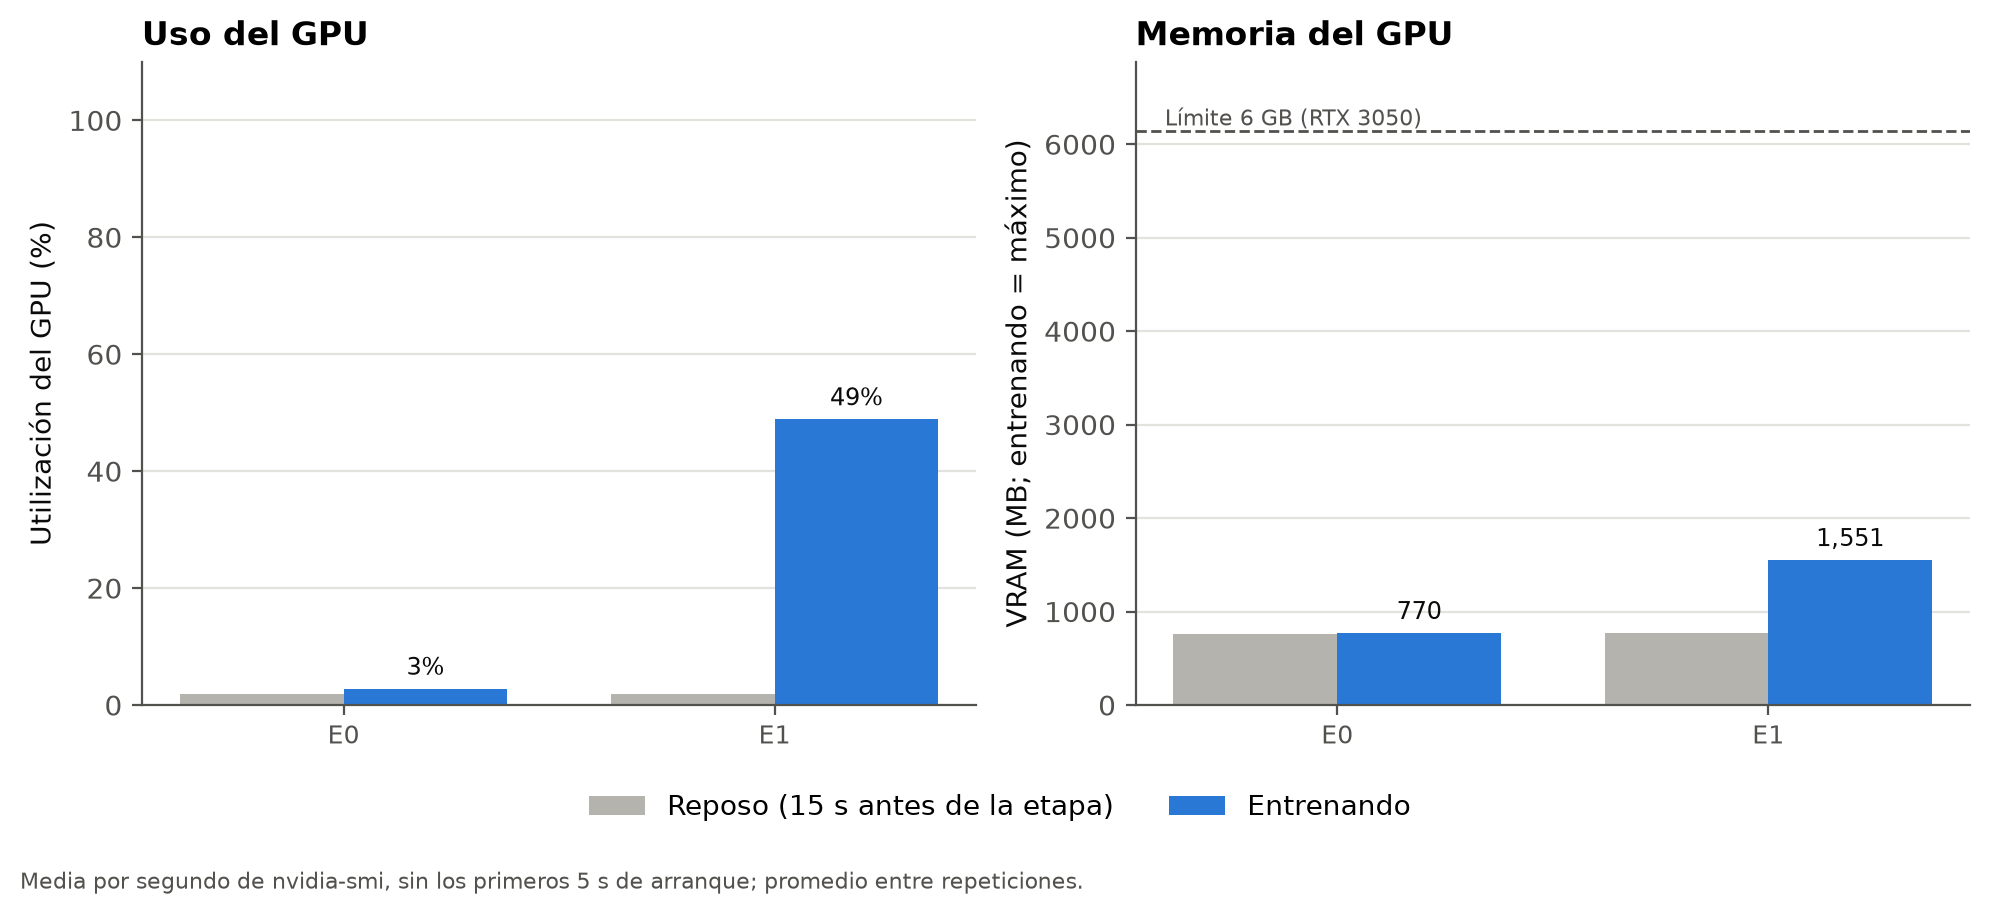
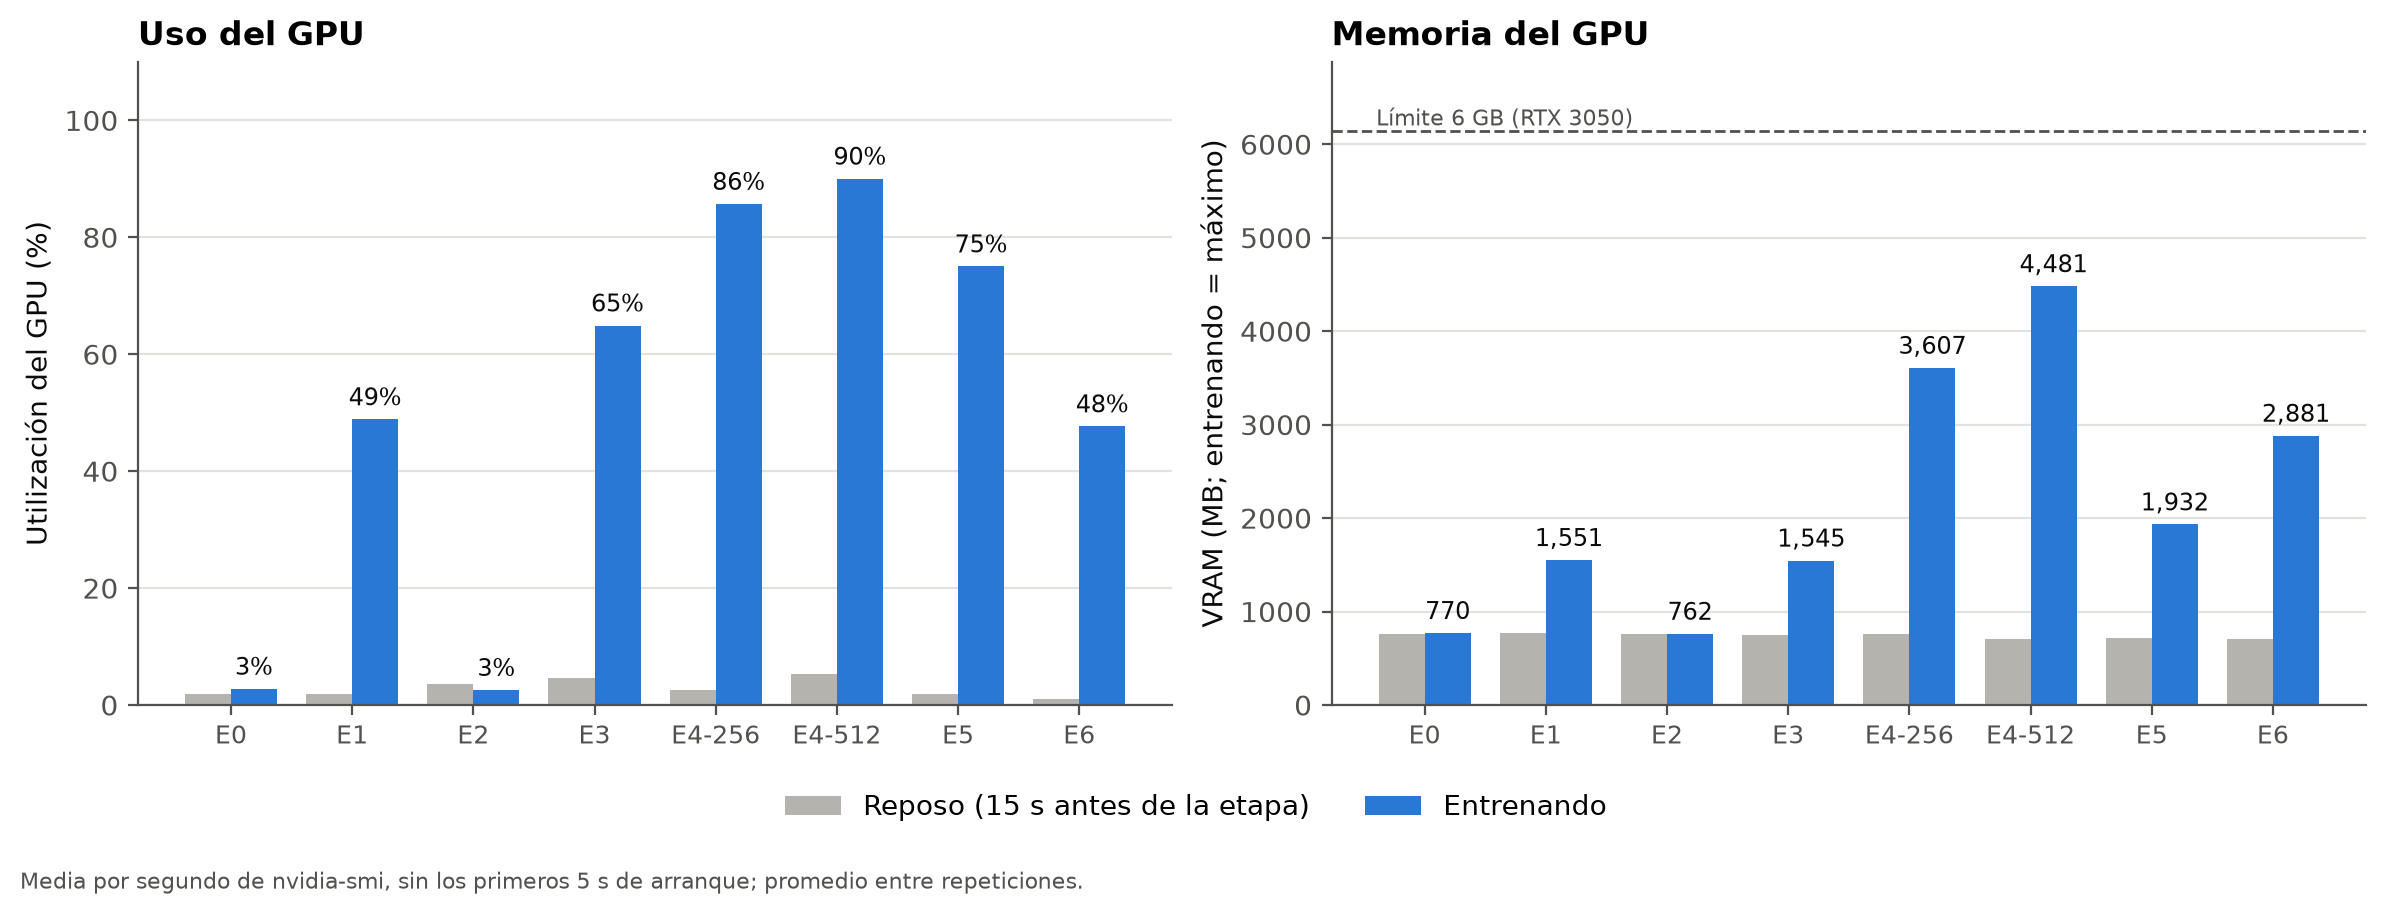
data: regenerate tables and figures with all stages

diff --git a/results/resumen_wsl2-rtx3050.md b/results/resumen_wsl2-rtx3050.md
@@ -6,14 +6,20 @@
 | --- | --- | --- | --- | --- | --- | --- | --- | --- | --- |
 | E0 | cpu | Código original del lab (CPU) | 3 | 396.19 | 1.46 | 153.72 | 0.95 | 1.00 | — |
 | E1 | gpu | Mismo código con GPU visible | 5 | 55.64 | 0.95 | 1,094.85 | 0.92 | 7.12 | 7.12 |
+| E2 | cpu | .npy + tf.data (CPU) | 3 | 304.57 | 4.80 | 199.98 | 0.95 | 1.30 | 0.18 |
+| E3 | gpu | .npy + tf.data (GPU) | 5 | 38.78 | 0.46 | 1,570.73 | 0.98 | 10.22 | 7.85 |
+| E4-256 | gpu | Lote grande | 5 | 26.45 | 0.29 | 2,302.83 | 0.94 | 14.98 | 1.47 |
+| E4-512 | gpu | Lote grande | 5 | 26.20 | 3.79 | 2,382.90 | 0.05 | 15.12 | 1.01 |
+| E5 | gpu | Precisión mixta | 5 | 28.53 | 0.38 | 2,135.13 | 0.95 | 13.89 | 0.92 |
+| E6 | gpu | XLA (jit_compile) | 5 | 7.85 | 0.02 | 7,762.39 | 0.95 | 50.50 | 3.64 |
 
 ## Speedups reportados
 
 | speedup | t_antes_s | t_despues_s | valor |
 | --- | --- | --- | --- |
-| Fase 1: preparación secuencial / paralela | — | — | pendiente |
-| Fase 2, efecto del GPU: E2 / E3 | — | — | pendiente |
-| Total: E0 / mejor etapa (E1) | 396.19 | 55.64 | 7.12× |
+| Fase 1: preparación secuencial / paralela | 54.23 | 9.29 | 5.84× |
+| Fase 2, efecto del GPU: E2 / E3 | 304.57 | 38.78 | 7.85× |
+| Total: E0 / mejor etapa (E6) | 396.19 | 7.85 | 50.50× |
 | Mismo código en GPU: E0 / E1 | 396.19 | 55.64 | 7.12× |
 
 ## Transferencia CPU → GPU (un lote)
@@ -21,6 +27,26 @@
 | etapa_lote | reps | mb_por_lote | ms_media | ms_std | gb_s |
 | --- | --- | --- | --- | --- | --- |
 | E1 | 5 | 3.146 | 0.768 | 0.088 | 4.096 |
+| E3 | 5 | 0.786 | 0.733 | 0.026 | 1.073 |
+| E4-256 | 5 | 3.146 | 0.721 | 0.056 | 4.364 |
+| E4-512 | 5 | 6.291 | 0.784 | 0.126 | 8.021 |
+| E5 | 5 | 3.146 | 0.823 | 0.131 | 3.823 |
+| E6 | 5 | 3.146 | 0.779 | 0.148 | 4.040 |
+
+## Fase 1: preparación de datos
+
+| etapa | reps | seg_media | seg_std | img_s | speedup |
+| --- | --- | --- | --- | --- | --- |
+| secuencial | 3 | 54.23 | 0.20 | 1,363.67 | 1.00 |
+| paralelo | 3 | 9.29 | 0.65 | 7,986.57 | 5.84 |
+
+## Diagnóstico (segundos por época equivalente)
+
+| etapa | lote | seg_epoca | img_s |
+| --- | --- | --- | --- |
+| datos_generator | 64 | 49.55 | 1,229.10 |
+| datos_arrays | 64 | 2.18 | 27,970.70 |
+| matematica | 64 | 37.38 | 1,629.40 |
 
 ## Uso de recursos (media por segundo, sin los primeros 5 s)
 
@@ -28,3 +54,9 @@
 | --- | --- | --- | --- | --- | --- | --- | --- | --- |
 | E0 | 3 | 1.9 | 2.8 | 10.7 | 761.0 | 770 | 85.0 | 12.0 |
 | E1 | 5 | 1.8 | 48.9 | 54.9 | 770.0 | 1,551 | 13.5 | 0.0 |
+| E2 | 3 | 3.5 | 2.6 | 10.7 | 762.0 | 762 | 84.5 | 12.0 |
+| E3 | 5 | 4.5 | 64.9 | 70.5 | 747.0 | 1,545 | 7.2 | 0.0 |
+| E4-256 | 5 | 2.5 | 85.7 | 92.6 | 762.0 | 3,607 | 3.8 | 0.0 |
+| E4-512 | 5 | 5.3 | 90.0 | 96.0 | 706.8 | 4,481 | 3.2 | 0.0 |
+| E5 | 5 | 1.8 | 75.0 | 87.0 | 718.0 | 1,932 | 4.7 | 0.0 |
+| E6 | 5 | 1.0 | 47.7 | 91.0 | 711.0 | 2,881 | 9.3 | 0.0 |
